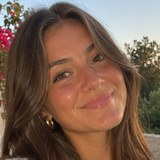
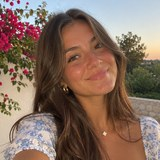
Website: first review photo zoomed out

diff --git a/public/content.js b/public/content.js
@@ -100,7 +100,7 @@ window.SITE = {
   // Real reviews, given by the owner (2026-11-14), shown as written. text: the review, mark: the words highlighted,
   // name: who (no follower count when none was given). Entries without text are placeholders for the next real reviews.
   reviews: [
-    { name: 'UGC creator', face: 'mint', photo: 'assets/reviews/review-1.jpg', text: 'Cutly AI has saved me so much time as a UGC creator. Editing used to take up most of my time, but now I can create videos much faster without losing quality. It’s become an essential part of my workflow!', mark: 'create videos much faster' },
+    { name: 'UGC creator', face: 'mint', photo: 'assets/reviews/review-1.jpg?v=2', text: 'Cutly AI has saved me so much time as a UGC creator. Editing used to take up most of my time, but now I can create videos much faster without losing quality. It’s become an essential part of my workflow!', mark: 'create videos much faster' },
     { name: 'TikTok Shop creator', face: 'peach', text: 'This app saves me so much time editing my TikTok Shop videos. I used to spend hours editing everything myself, but now CutlyAI does it for me. I get more free time every day, and the videos turn out great! Definitely worth it!', mark: 'more free time every day' },
     { name: 'Content creator', face: 'lilac', text: 'I’ve been using Cutly for my content, and I’m loving it so far! The results look great, and it makes creating videos so much easier, especially if you’re not experienced with editing. Highly recommend it if you want to make videos without the hassle!', mark: 'without the hassle' },
     { name: 'Creator', face: 'rose', text: 'Cutly has made video editing so much easier for me! I don’t have to worry about spending hours learning complicated editing tools anymore. It does most of the work for me, and the videos come out looking amazing. Such a great tool for anyone creating content!', mark: 'does most of the work for me' }

diff --git a/public/index.html b/public/index.html
@@ -134,7 +134,7 @@
 </div>
 
 <script src="scenes.js?v=7"></script>
-<script src="content.js?v=70"></script>
+<script src="content.js?v=71"></script>
 <script src="feature-ui.js?v=15"></script>
 <script src="script.js?v=65rev"></script>
 <script src="demo.js?v=12"></script>
